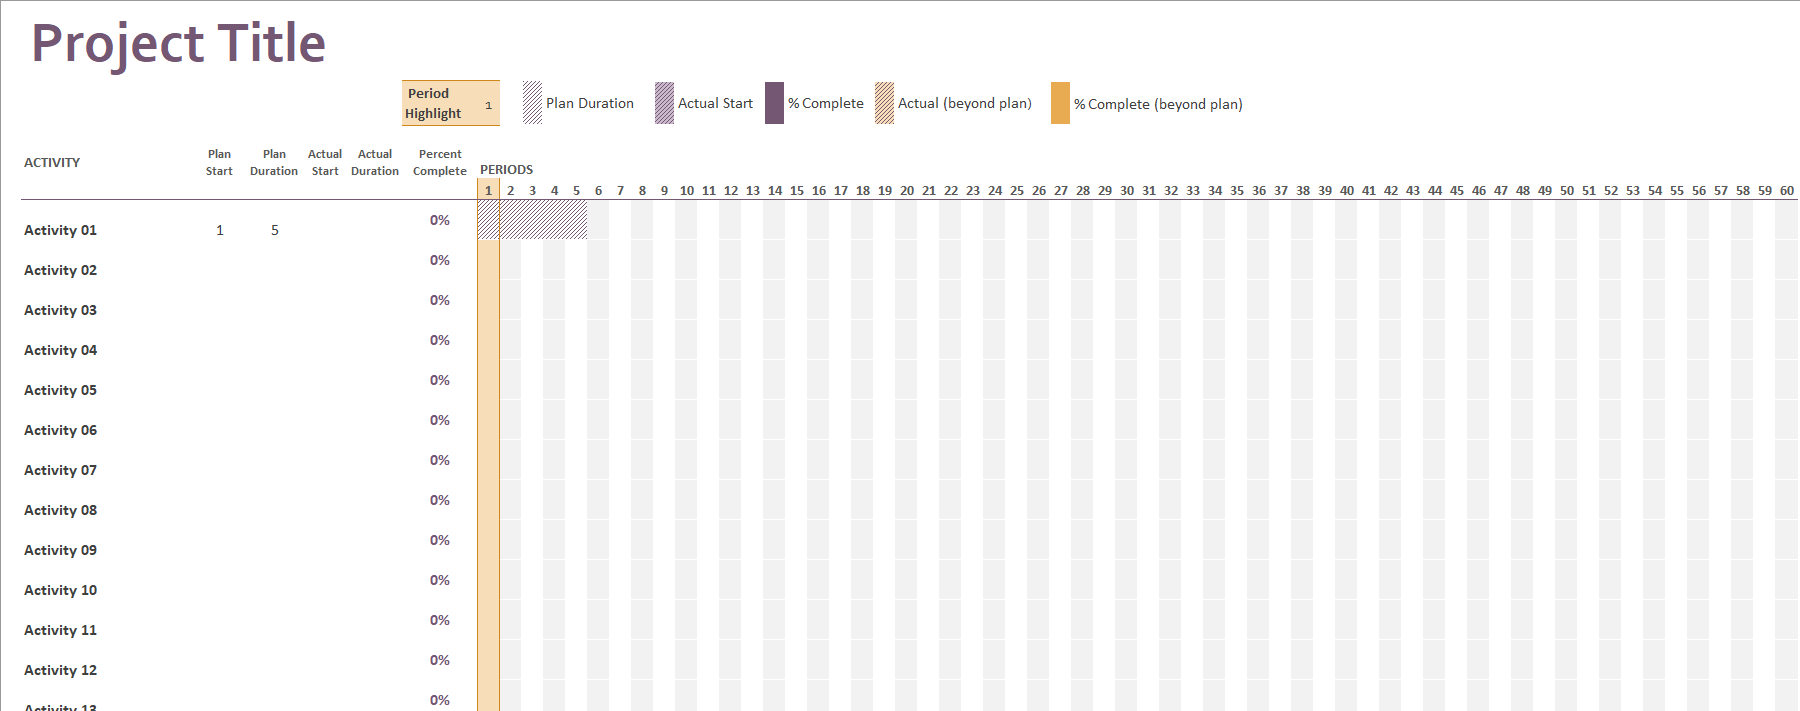
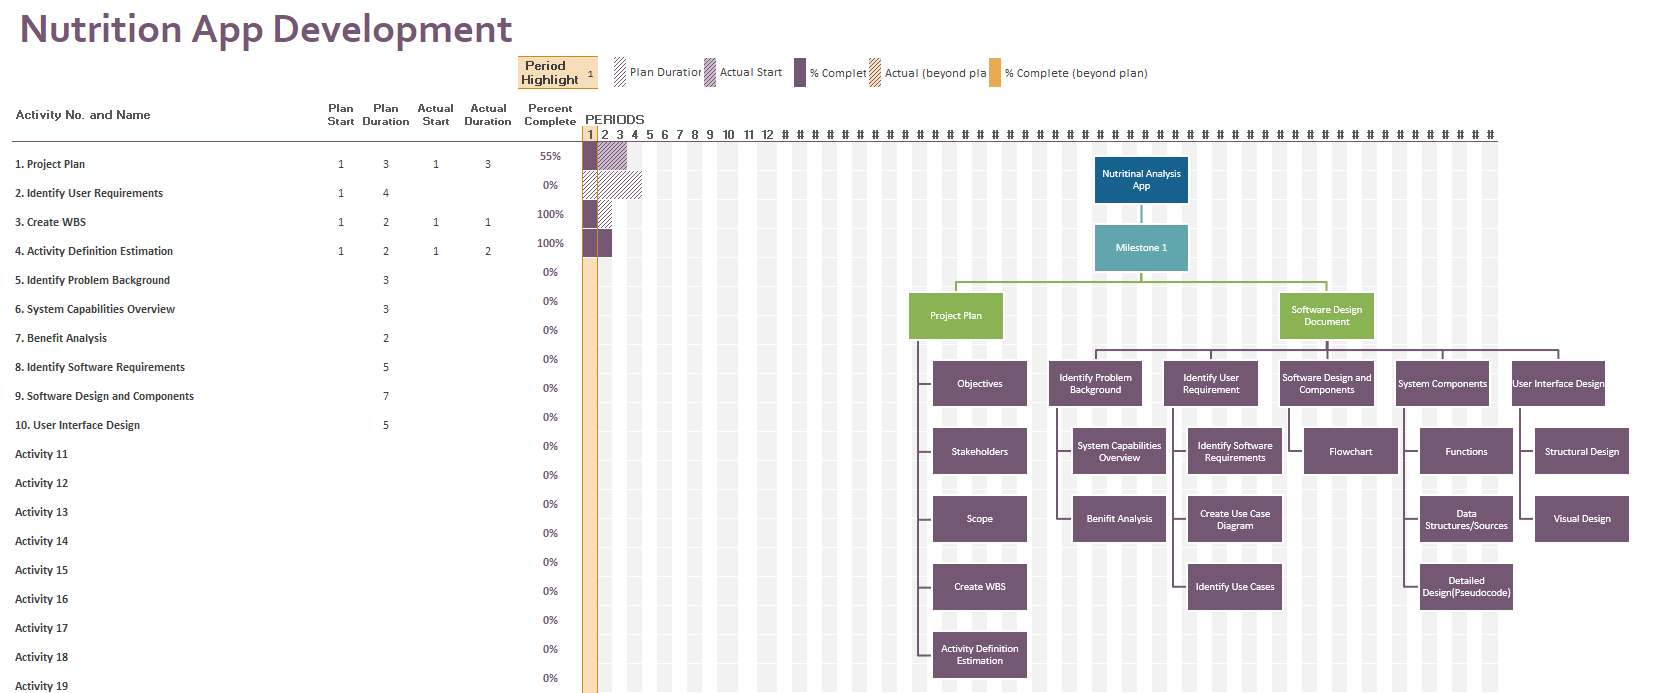
Changed Activity Definition Estimation

diff --git a/Project Plan.md b/Project Plan.md
@@ -9,7 +9,7 @@
 |-------------|---------------|-----------------|----------------------------|
 | s5278113    | Jacob Barany  | Altidias        | 33.3% or Equal             |
 | s5345670    | Glyza Lou Sim | Glyza-Lou       | 33.3% or Equal             | 
-| s5357200     | Chathumika Dimukthi Wijesinghe     | xxx             | 33.3% or Equal             | 
+| s5357200     | Chathumika Dimukthi Wijesinghe     | Chathumika             | 33.3% or Equal             | 
 
 ### Brief Description of Contribution
 
@@ -82,25 +82,24 @@ Exclusions
 
 ## 2. Work Breakdown Structure
 
-Include the Work Breakdown Structure (WBS) for the entire project. WBS should be presented as a hierarchical diagram. Use the elements from the WBS to define activities in Section 3, and schedule these activities in the Gantt Chart in Section 4. Ensure all project activities are considered and included in the WBS.
-
 ![WBS](./wbs.svg)
 
 ## 3. Activity Definition Estimation
 
-Define the activities required for your project based on the WBS, and assign responsibilities to team members. Each activity should be numbered and correspond with your Gantt chart. Provide estimated durations for each activity to facilitate Gantt chart preparation.
-
 | Activity #No | Activity Name | Brief Description | Duration | Responsible Team Members |
 |--------------|---------------|-------------------|----------|--------------------------|
-| xxx          | xxx           | xxx               | xxx      | xxx \& yyy               |
-| xxxx         | xxx           | xxx               | xxx      | All                      |
-| xxxx         | xxx           | xxx               | xxx      | xxx                      |
+| 1            | Project Plan           | Develop a comprehensive project plan, outlining the objectives, stakeholders, and scope.               | 3 days      | All               |
+| 2            | Identify User Requirements           | Identify and document the requirements of users.               | 4 days      | All                      |
+| 3            | Create WBS           | Create a Work Breakdown Structure to organize project tasks.               | 2 days      | Glyza Lou Sim                      |
+| 4            | Activity Definition Estimation           | Define project activities, assign responsibilities, and estimate durations.               | 2 days      | Chathumika               |
+| 5            | Identify Problem Background           | Analyze and document the problem that the app will solve.               | 3 days      | Jacob Barany                      |
+| 6            | System Capabilities Overview           | Outline the system capabilities needed to meet user requirements.               | 3 days      | Glyza Lou Sim                      |
+| 7            | Benefit Analysis           | Assess and document the benefits of the proposed system.               | 2 days      | Chathumika               |
+| 8            | Identify Software Requirements           | Identify and document software requirements, including use cases and diagrams.               | 5 days      | Jacob Barany & Glyza Lou Sim                      |
+| 9            | Software Design and Components           | Develop software design documents, including flowcharts and system components.               | 7 days      | Chathumika & Glyza Lou Sim                      |
+| 10           | User Interface Design           | Design the structural and visual aspects of the user interface.               | 5 days      | Jacob Barany & Chathumika                      |
 
 ## 4. Gantt Chart
-You have to use the provided Gantt chart template.  
 
-Use the provided Gantt chart template to list all items from the Activity Definition along with relevant estimates 
-and scheduling. Ensure that the Gantt chart reflects the activity definitions from Section 3. Track actual start 
-times and durations. Besides including Gantt chart here, you should also submit your Gantt chart file separately.
 ![Gantt Chart](./Gantt_chart.png)
 
